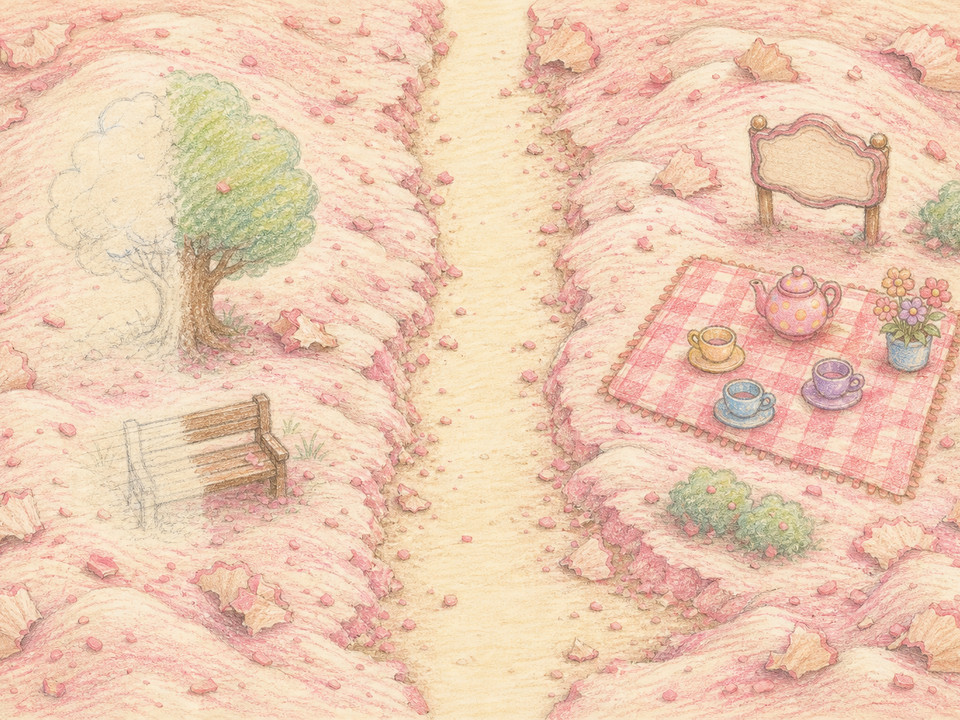
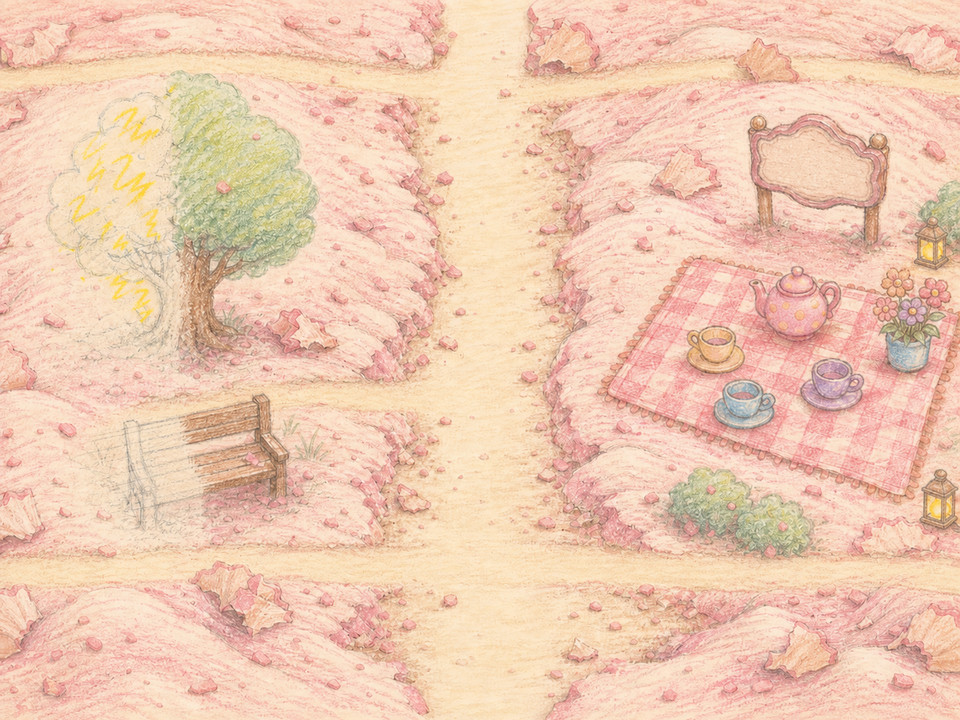
Fix three player-reported dunes flaws
- Stub now stands on the ghost half of the tree at (1,5), matching the
  "hurling itself at the ghost half" meet-scene text (was right of the
  drawn half); smoke test approaches from below
- bg_dunes_1 edited in place (GPT Image 2): yellow crayon streaks on the
  ghost foliage/trunk, and visible sandy trail openings through the dune
  ridges where the collision grid already allowed passage - the side
  areas no longer look sealed off
- "ren drew the bark wrong" now reads "ren wrote his bark in the speech
  bubble as 'BORK!'" (it's the dog's woof, not tree bark); Smoother's
  reach-out line matches

Verified: validate, regress, both smoke endings, touch smoke, collision
audit overlay.

diff --git a/src/data/enemies.js b/src/data/enemies.js
@@ -265,7 +265,7 @@ export const ENEMIES = {
     calmNeed: 6,
     reach: [
       { label: "\"It WAS drawn.\"", good: true, text: "The doodles in its belly press against the pale skin, like they heard. The smile flickers." },
-      { label: "Name the erased dog", good: true, text: "\"His name was PATCH. Right there. Spot over one eye, bark drawn wrong on purpose.\" The Smoother's brush hand trembles. It knows the name is still true." },
+      { label: "Name the erased dog", good: true, text: "\"His name was PATCH. Right there. Spot over one eye, his bark written 'BORK!' on purpose.\" The Smoother's brush hand trembles. It knows the name is still true." },
       { label: "\"Smooth isn't healed.\"", good: true, text: "The Smoother opens its eyes for the first time. They are very old and very tired of smiling." },
       { label: "Show your scraped knee", good: true, text: "You show it the scrape from the woods. \"See? Still here. Still mine.\" The Smoother stares at the unsmoothed thing, transfixed." },
       { label: "Ask it to erase the pain", good: false, text: "It brightens terribly and raises the brush. Wrong. WRONG. You want to remember - you want to WANT to remember." },

diff --git a/src/data/maps.js b/src/data/maps.js
@@ -430,7 +430,7 @@ export const MAPS = {
       { id: "exit", x: 9, y: 13, w: 3, h: 1, touch: "s_dunes_to_blank" },
       { id: "gate", x: 9, y: 0, w: 3, h: 1, touch: "s_dunes_to_dunes2" },
       { id: "tree", x: 2, y: 2, w: 4, h: 5, interact: "s_dunes_tree" },
-      { id: "stub_npc", x: 6, y: 4, w: 1, h: 1, sprite: "sp_stub", interact: "s_meet_stub", hidden: { flag: "stub_joined", is: true } },
+      { id: "stub_npc", x: 1, y: 5, w: 1, h: 1, sprite: "sp_stub", interact: "s_meet_stub", hidden: { flag: "stub_joined", is: true } },
       { id: "bench", x: 2, y: 8, w: 4, h: 3, interact: "s_dunes_bench" },
       { id: "sign", x: 15, y: 2, w: 4, h: 3, interact: "s_dunes_sign" },
       { id: "picnic", x: 13, y: 5, w: 6, h: 5, interact: "s_dunes_picnic" },

diff --git a/src/data/script.js b/src/data/script.js
@@ -647,7 +647,7 @@ export const SCRIPTS = {
     ], else: [
       { t: "if", flag: "stub_joined", is: true, then: [
         n("A dog-shaped almost-nothing. A spot over one eye, if you squint\nwith your whole heart."),
-        say("stub", "i remember this guy!! PATCH! page thirty-one! ren drew the bark wrong\nand you LIKED it wrong! come on - you trace, i'll color. TEAMWORK."),
+        say("stub", "i remember this guy!! PATCH! page thirty-one! ren wrote his bark\nin the speech bubble as 'BORK!' - wrong on purpose - and you LIKED it\nwrong! come on - you trace, i'll color. TEAMWORK."),
         { t: "choice", options: [
           { label: "Redraw the dog together", then: [
             n("You trace. Stub colors. The lines wobble, which is correct -\nthey always wobbled. A tail happens. The tail WAGS. PATCH is back."),

diff --git a/docs/DEVLOG.md b/docs/DEVLOG.md
@@ -388,3 +388,19 @@ A follow-up tuning session, all changes sim-checked against §9's bands:
   didn't read as a swan. Prompt rewritten; the baked `bg_woods_2` got an
   in-place GPT Image 2 edit (crane → swan) so the lit `bg_woods_2_risen`
   variant still matches.
+
+### 13.1 Player-reported dunes flaws (same day)
+
+- **Stub met at the wrong tile.** The meet-scene text has Stub "hurling itself
+  at the ghost half of the tree," but the NPC stood at (6,4) — right of the
+  *drawn* half. Moved to (1,5), on the ghost side; smoke test updated to
+  approach from below.
+- **The streaks existed only in prose.** `bg_dunes_1` got a second in-place
+  GPT Image 2 edit: small yellow crayon zigzags on the ghost foliage/trunk
+  (Stub's handiwork), plus visible sandy trail openings where the grid's
+  row-1, row-7 and row-11/12 crossings pierce the dune ridges — the walkable
+  side areas previously looked sealed off. Audit overlay re-checked; the
+  trails land on the walkable rows.
+- **"Ren drew the bark wrong" confused a player** — it's the dog's woof, not
+  tree bark. Stub now says Ren wrote the bark in the speech bubble as
+  "BORK!", and the Smoother's "Name the erased dog" line matches.